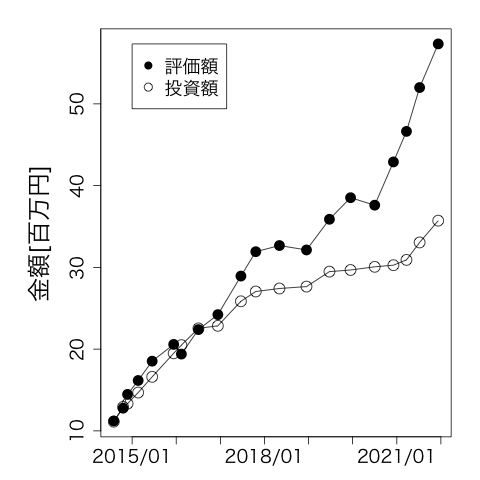
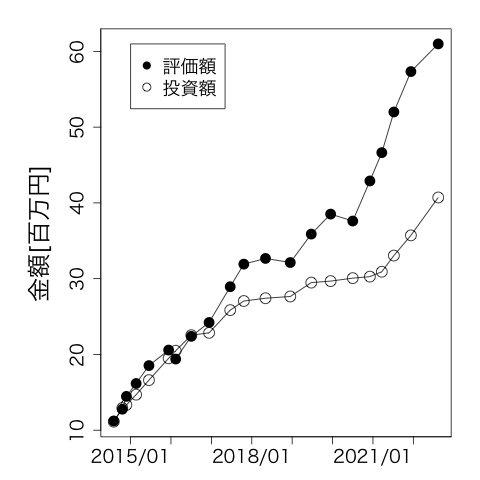
add 2022/8/14

diff --git a/investment_return.md b/investment_return.md
@@ -32,3 +32,4 @@ permalink: /investment_return/
 3/22/2021|30,914,682|46,634,966|15,720,284|50.85%
 7/9/2021|33,047,909|51,996,763|18,948,854|57.34%
 12/10/2021|35,714,074|57,333,260|21,619,186|60.53%
+8/14/2022|40,718,005|60,982,959|20,264,953|49.77%
